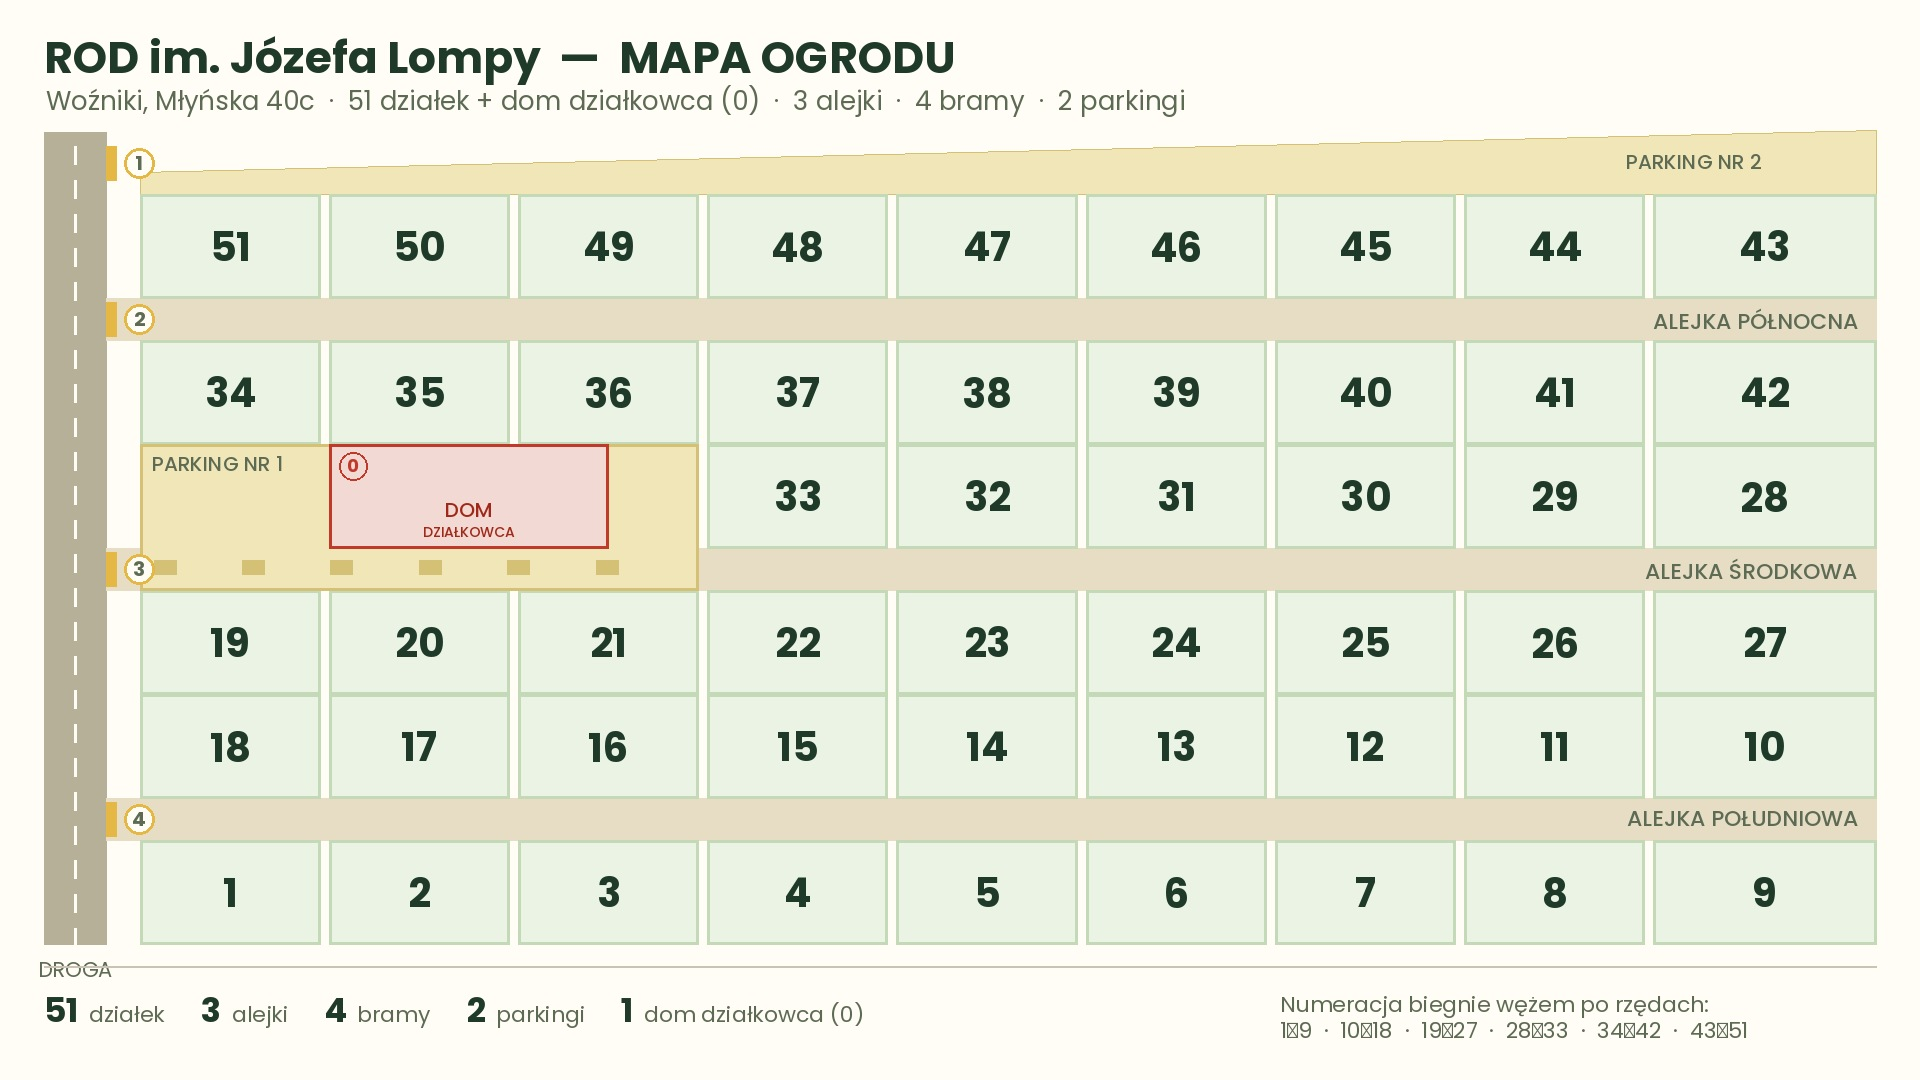
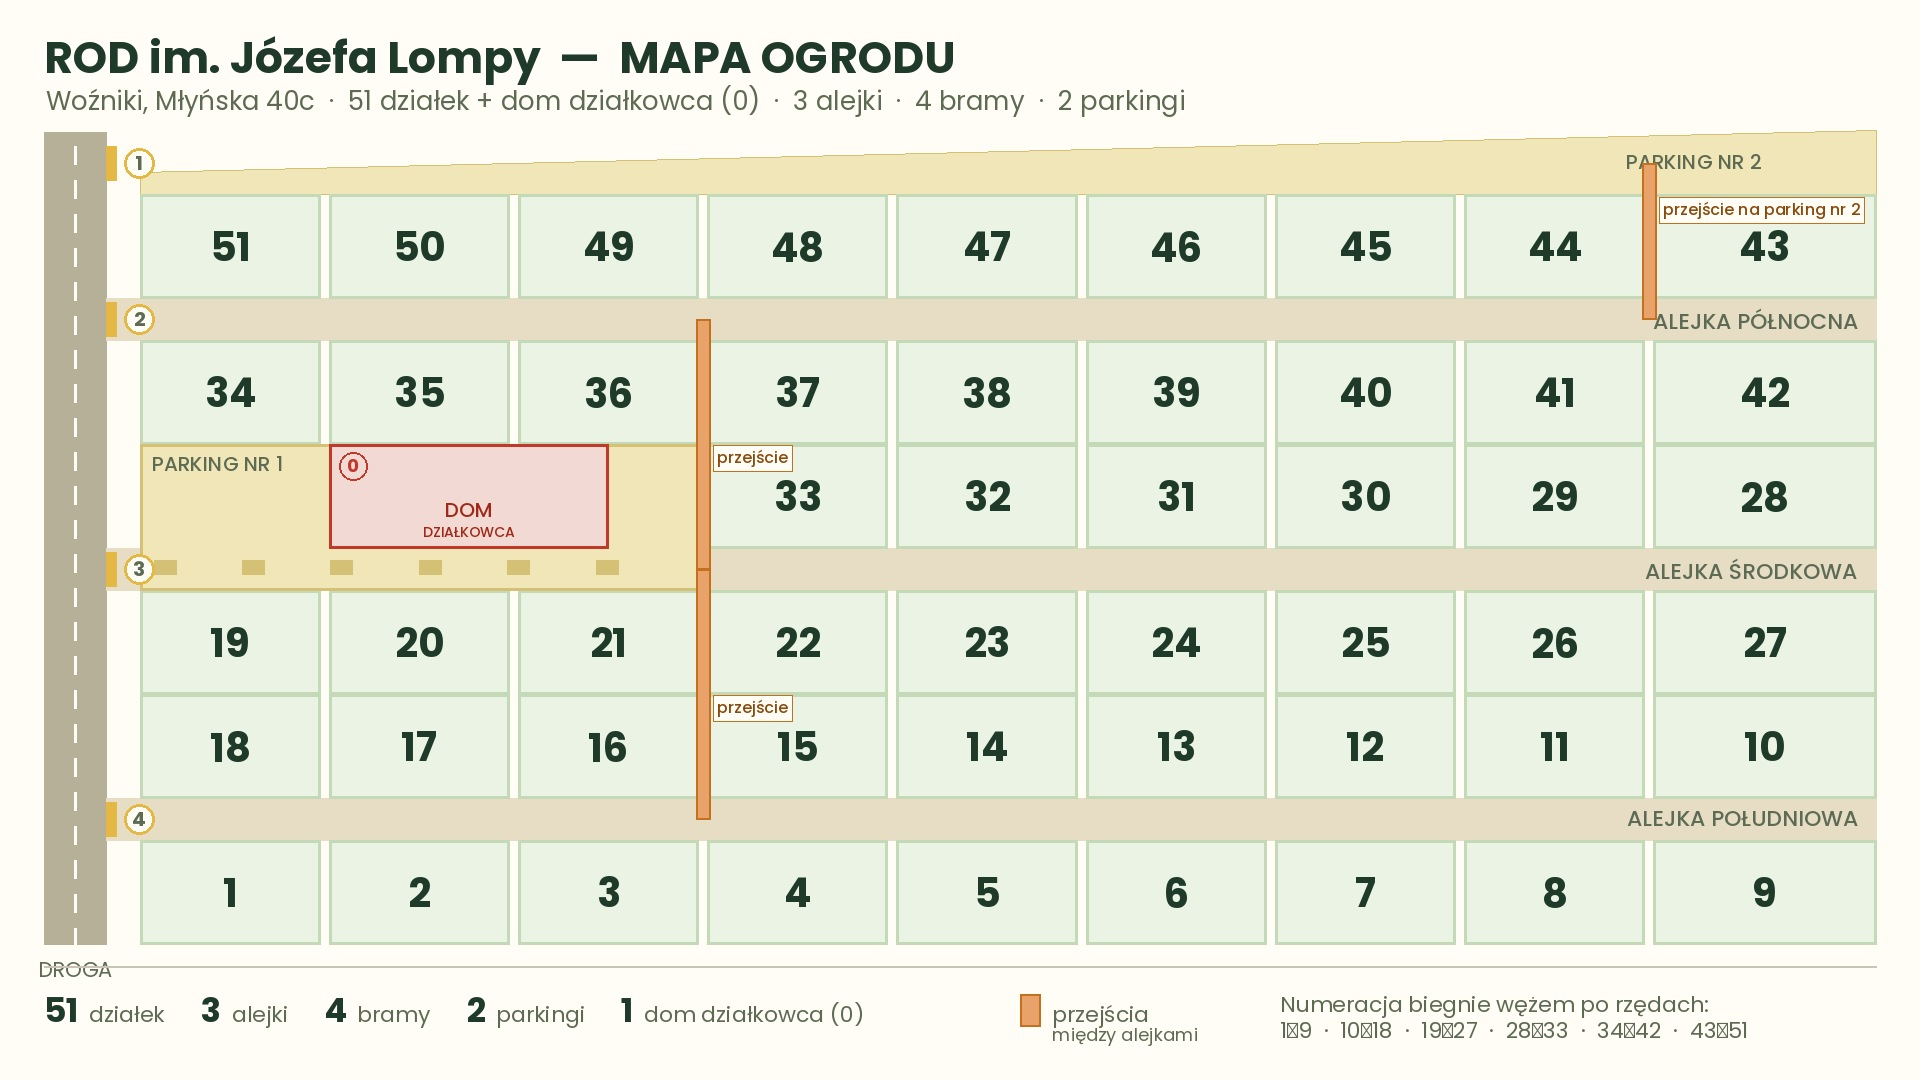
D-0316: glowna mapa ogrodu z 3 przejsciami poprzecznymi (u zrodla w baza_mapy), wzor i strona /mapa/ zaktualizowane

Changed region(s): [[0.3438, 0.3056, 0.4062, 0.7639], [0.8438, 0.1528, 0.9688, 0.3056], [0.5312, 0.9167, 0.625, 0.9778]]

diff --git a/assets/mapy_wzor/baza_mapy_WZOR.py b/assets/mapy_wzor/baza_mapy_WZOR.py
@@ -24,6 +24,7 @@ LINIA, DROGA, DROGA_L = "#c9c3b4", "#b6b099", "#fffdf6"
 DOM, DOM_OB = "#f2d9d4", "#c0392b"
 PARK_KOL, PARK_OB = "#f0e6b8", "#d4c176"  # parking (plac) — jasny, scalony
 BRAMA, BLOK, BLOK_OB = "#e5b744", "#dcd3b8", "#c2b892"
+PRZEJSCIE, PRZEJSCIE_OB = "#e9a36a", "#c5701e"  # przejscia poprzeczne miedzy alejkami (Tomasz 04.09.2026)
 
 
 def font(n, r):
@@ -164,6 +165,25 @@ def rysuj_baze(tytul, podtytul, przed_dzialkami=None):
     srodek(d, (_dxa + 24, Y_R4 + 22), "0", font("Bold", 18), "#c0392b")
     srodek(d, ((_dxa + _dxb) / 2, Y_R4 + DZ_H / 2 + 14), "DOM", F_BLOK, "#a02818")
     srodek(d, ((_dxa + _dxb) / 2, Y_R4 + DZ_H / 2 + 36), "DZIAŁKOWCA", font("Medium", 14), "#a02818")
+
+    # PRZEJSCIA POPRZECZNE (Tomasz 04.09.2026): 36|37 Polnocna->Srodkowa, 21|22 -> 16|15 Srodkowa->Poludniowa,
+    # 43|44 Polnocna->Parking nr 2. Waskie pasy w szczelinie miedzy kolumnami, rysowane NA dzialkach.
+    _, _x2b = x_kol(2); _x3a, _ = x_kol(3)
+    _xp = (_x2b + _x3a) / 2            # szczelina 36|37 = 21|22 = 16|15 (ta sama linia)
+    _, _x7b = x_kol(7); _x8a, _ = x_kol(8)
+    _xe = (_x7b + _x8a) / 2            # szczelina 44|43
+    _pw = 7                            # polowa szerokosci pasa
+    for _x, _ya, _yb in ((_xp, Y_ALN + AL_H / 2, Y_ALS + AL_H / 2),
+                         (_xp, Y_ALS + AL_H / 2, Y_ALP + AL_H / 2),
+                         (_xe, Y_MAPA + PARK2_H / 2, Y_ALN + AL_H / 2)):
+        d.rectangle([_x - _pw, _ya, _x + _pw, _yb], fill=PRZEJSCIE, outline=PRZEJSCIE_OB, width=2)
+    _fp = font("Medium", 16)
+    for _x, _y, _t in ((_xp + 14, Y_R5 + DZ_H + 4, "przejście"),
+                       (_xp + 14, Y_R3 + DZ_H + 4, "przejście"),
+                       (_xe + 14, Y_R6 + 6, "przejście na parking nr 2")):
+        l, t, r, b = d.textbbox((0, 0), _t, font=_fp)
+        d.rectangle([_x - 4, _y - 3, _x + (r - l) + 4, _y + (b - t) + 5], fill=TLO, outline=PRZEJSCIE_OB, width=1)
+        d.text((_x, _y - t + 1), _t, font=_fp, fill="#8a4a0e")
 
     # bramy (na wschodniej krawedzi drogi)
     for yy, nr in ((Y_MAPA + PARK2_H / 2, "1"), (Y_ALN + AL_H / 2, "2"),

diff --git a/tools/mapa_rod/baza_mapy.py b/tools/mapa_rod/baza_mapy.py
@@ -24,6 +24,7 @@ LINIA, DROGA, DROGA_L = "#c9c3b4", "#b6b099", "#fffdf6"
 DOM, DOM_OB = "#f2d9d4", "#c0392b"
 PARK_KOL, PARK_OB = "#f0e6b8", "#d4c176"  # parking (plac) — jasny, scalony
 BRAMA, BLOK, BLOK_OB = "#e5b744", "#dcd3b8", "#c2b892"
+PRZEJSCIE, PRZEJSCIE_OB = "#e9a36a", "#c5701e"  # przejscia poprzeczne miedzy alejkami (Tomasz 04.09.2026)
 
 
 def font(n, r):
@@ -164,6 +165,25 @@ def rysuj_baze(tytul, podtytul, przed_dzialkami=None):
     srodek(d, (_dxa + 24, Y_R4 + 22), "0", font("Bold", 18), "#c0392b")
     srodek(d, ((_dxa + _dxb) / 2, Y_R4 + DZ_H / 2 + 14), "DOM", F_BLOK, "#a02818")
     srodek(d, ((_dxa + _dxb) / 2, Y_R4 + DZ_H / 2 + 36), "DZIAŁKOWCA", font("Medium", 14), "#a02818")
+
+    # PRZEJSCIA POPRZECZNE (Tomasz 04.09.2026): 36|37 Polnocna->Srodkowa, 21|22 -> 16|15 Srodkowa->Poludniowa,
+    # 43|44 Polnocna->Parking nr 2. Waskie pasy w szczelinie miedzy kolumnami, rysowane NA dzialkach.
+    _, _x2b = x_kol(2); _x3a, _ = x_kol(3)
+    _xp = (_x2b + _x3a) / 2            # szczelina 36|37 = 21|22 = 16|15 (ta sama linia)
+    _, _x7b = x_kol(7); _x8a, _ = x_kol(8)
+    _xe = (_x7b + _x8a) / 2            # szczelina 44|43
+    _pw = 7                            # polowa szerokosci pasa
+    for _x, _ya, _yb in ((_xp, Y_ALN + AL_H / 2, Y_ALS + AL_H / 2),
+                         (_xp, Y_ALS + AL_H / 2, Y_ALP + AL_H / 2),
+                         (_xe, Y_MAPA + PARK2_H / 2, Y_ALN + AL_H / 2)):
+        d.rectangle([_x - _pw, _ya, _x + _pw, _yb], fill=PRZEJSCIE, outline=PRZEJSCIE_OB, width=2)
+    _fp = font("Medium", 16)
+    for _x, _y, _t in ((_xp + 14, Y_R5 + DZ_H + 4, "przejście"),
+                       (_xp + 14, Y_R3 + DZ_H + 4, "przejście"),
+                       (_xe + 14, Y_R6 + 6, "przejście na parking nr 2")):
+        l, t, r, b = d.textbbox((0, 0), _t, font=_fp)
+        d.rectangle([_x - 4, _y - 3, _x + (r - l) + 4, _y + (b - t) + 5], fill=TLO, outline=PRZEJSCIE_OB, width=1)
+        d.text((_x, _y - t + 1), _t, font=_fp, fill="#8a4a0e")
 
     # bramy (na wschodniej krawedzi drogi)
     for yy, nr in ((Y_MAPA + PARK2_H / 2, "1"), (Y_ALN + AL_H / 2, "2"),

diff --git a/tools/mapa_rod/mapa_ogrodu.py b/tools/mapa_rod/mapa_ogrodu.py
@@ -4,7 +4,7 @@ MAPA OGRODU (przegladowa) — ROD im. Jozefa Lompy.  1920x1080.
 Ta sama baza co mapy etapow — w filmie widz caly czas patrzy na ten sam ogrod.
 Bez kabli: sam uklad (51 dzialek, 3 alejki, 4 bramy, 2 parkingi, dom dzialkowca).
 """
-from baza_mapy import rysuj_baze, font, W, H, Y_KON, LINIA, TEKST, TEKST_2
+from baza_mapy import rysuj_baze, font, W, H, Y_KON, LINIA, TEKST, TEKST_2, PRZEJSCIE, PRZEJSCIE_OB
 
 OUT = "/root/rod-ai-studio/data/rolka-prad/mapy-16x9"
 
@@ -28,6 +28,9 @@ for lb, op in [("51", "działek"), ("3", "alejki"), ("4", "bramy"),
     l2, t2, r2, b2 = d.textbbox((0, 0), op, font=F_LEG)
     x += (r - l) + (r2 - l2) + 46
 
+d.rectangle([W - 900, y + 8, W - 880, y + 40], fill=PRZEJSCIE, outline=PRZEJSCIE_OB, width=2)
+d.text((W - 868, y + 12), "przejścia", font=F_LEG, fill=TEKST_2)
+d.text((W - 868, y + 36), "między alejkami", font=font("Regular", 18), fill=TEKST_2)
 d.text((W - 640, y + 2), "Numeracja biegnie wężem po rzędach:", font=F_LEG, fill=TEKST_2)
 d.text((W - 640, y + 28), "1→9  ·  10→18  ·  19→27  ·  28→33  ·  34→42  ·  43→51",
        font=F_LEG, fill=TEKST_2)

diff --git a/www_rod/content/pages/mapa.md b/www_rod/content/pages/mapa.md
@@ -6,15 +6,15 @@ slug: mapa
 
 :::html
 <div class="mapa-container">
-  <img class="mapa-img" id="mapa-img" src="/static/img/mapa-ogrodu.jpg?v=dbb01565" alt="Mapa ROD im. Józefa Lompy w Woźnikach — 51 działek, alejki, bramy, parkingi, Dom Działkowca" loading="lazy">
+  <img class="mapa-img" id="mapa-img" src="/static/img/mapa-ogrodu.jpg?v=f397ad05" alt="Mapa ROD im. Józefa Lompy w Woźnikach — 51 działek, alejki, bramy, parkingi, Dom Działkowca" loading="lazy">
   <div class="mapa-toolbar">
     <button class="button button-ghost mapa-zoom" id="mapa-zoom" type="button">🔍 Powiększ</button>
-    <a class="button button-primary" href="/static/img/mapa-ogrodu.jpg?v=dbb01565" download="Mapa_ROD_Wozniki.jpg">⬇ Pobierz</a>
+    <a class="button button-primary" href="/static/img/mapa-ogrodu.jpg?v=f397ad05" download="Mapa_ROD_Wozniki.jpg">⬇ Pobierz</a>
   </div>
 </div>
 <div class="mapa-lightbox" id="mapa-lightbox" role="dialog" aria-modal="true" aria-label="Powiększona mapa ogrodu">
   <button class="mapa-close" id="mapa-close" type="button" aria-label="Zamknij">✕</button>
-  <img src="/static/img/mapa-ogrodu.jpg?v=dbb01565" alt="Mapa ogrodu — powiększona">
+  <img src="/static/img/mapa-ogrodu.jpg?v=f397ad05" alt="Mapa ogrodu — powiększona">
 </div>
 :::
 

diff --git a/assets/mapy_wzor/README.md b/assets/mapy_wzor/README.md
@@ -28,3 +28,4 @@ Przy nowej mapie: `from baza_mapy import rysuj_baze` i rysować swoje elementy n
 - „scal parking żeby wyglądało jednym kolorem" → jeden blok zamiast kafli
 - „ten sam odcień co parking nr 1" → parking nr 2 ujednolicony
 - „przedłużyć dom do połowy działki 36" → dom poszerzony
+- 04.09.2026 Tomasz: „Zapisz to jako główna mapa, te przejścia zrób troszeczkę cieńsze" → do kanonu dochodzą 3 PRZEJŚCIA POPRZECZNE (wąskie pomarańczowe pasy w szczelinie między kolumnami, rysowane w rysuj_baze): 36|37 Północna→Środkowa, 21|22→16|15 Środkowa→Południowa, 43|44 Północna→Parking nr 2; wszystkie mapy dziedziczą je automatycznie
